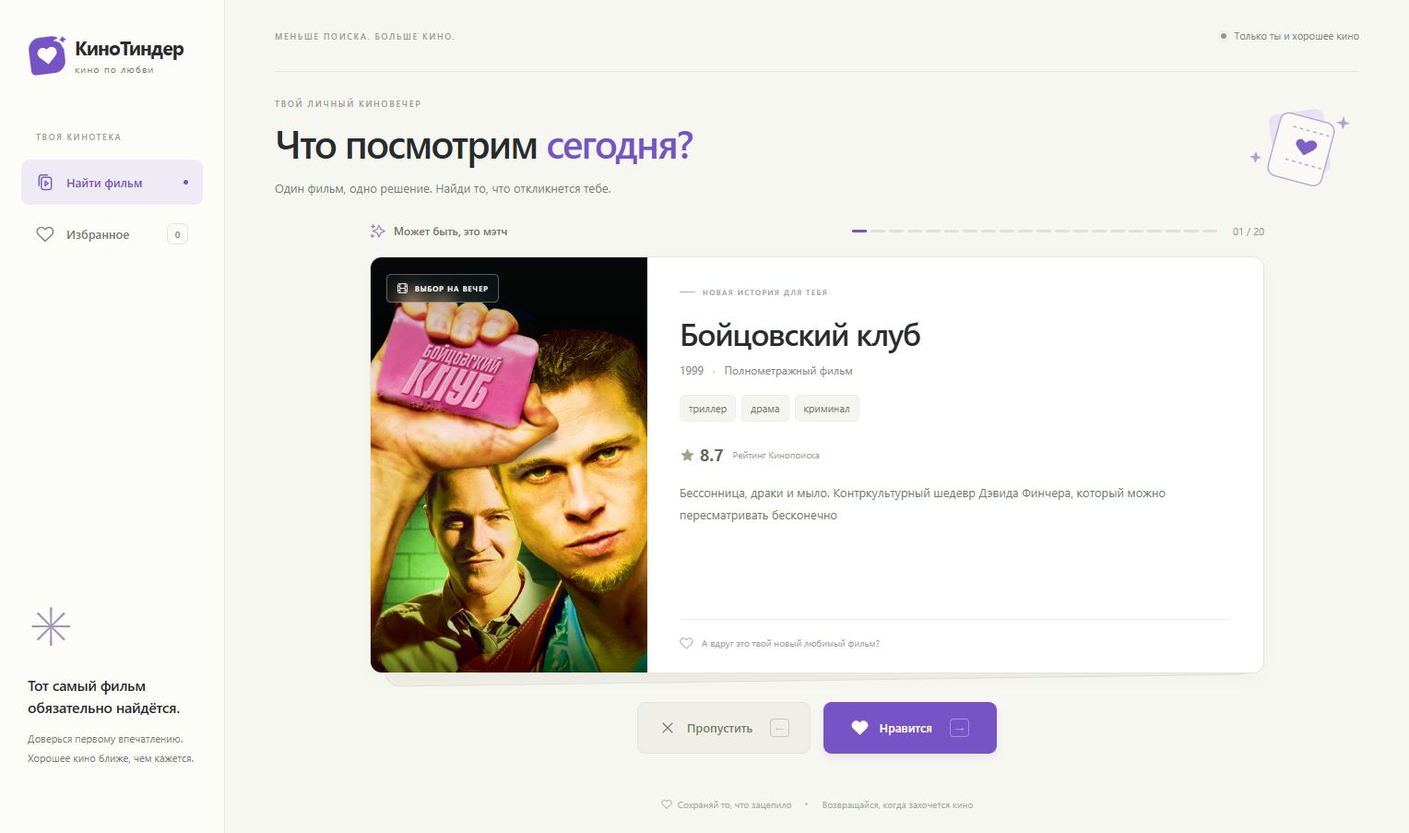
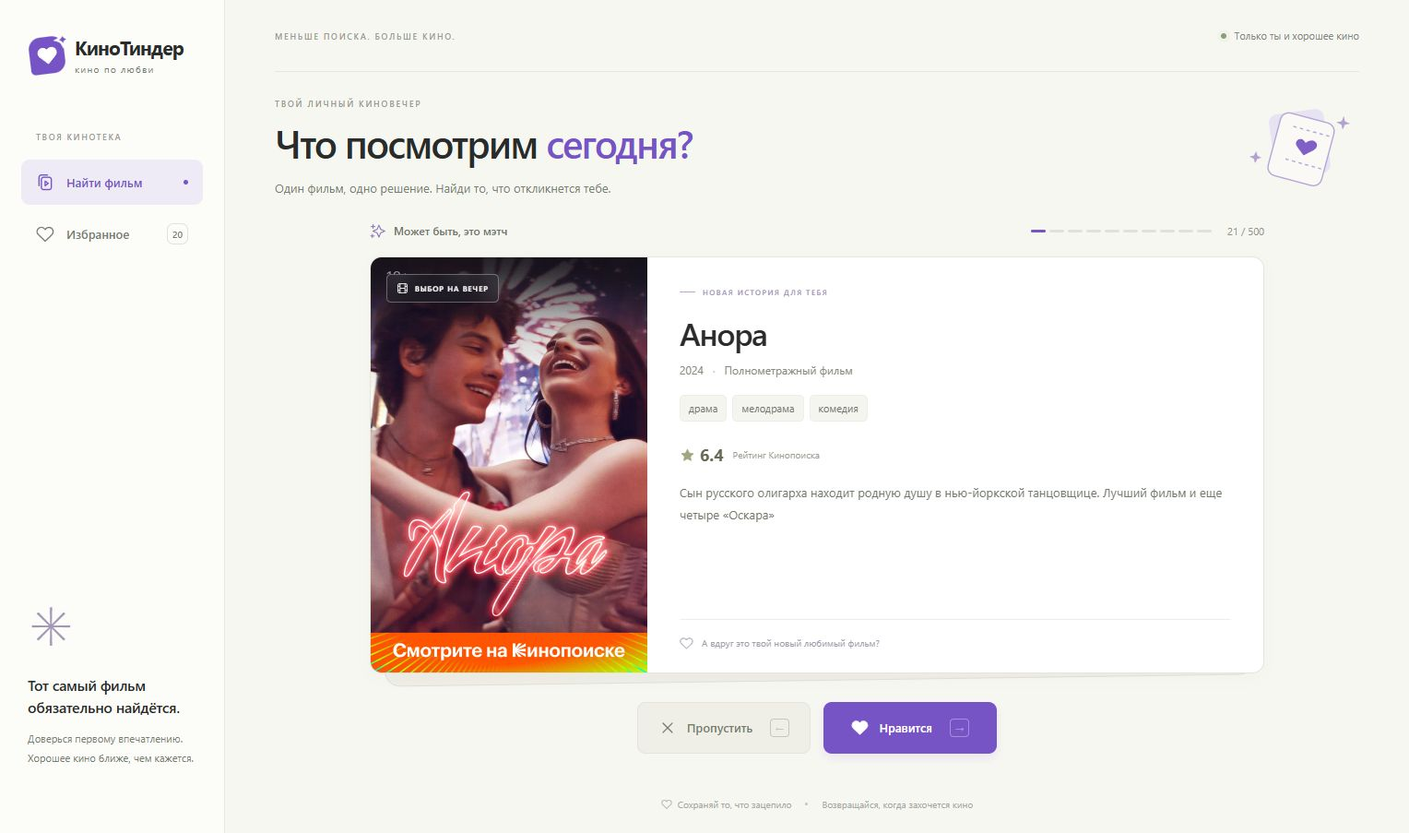
Load up to 500 movies with persistent cursor pagination

diff --git a/frontend/script.js b/frontend/script.js
@@ -7,6 +7,8 @@
   const card = $("movie-card");
   let movies = [];
   let favorites = [];
+  const MAX_MOVIES = 500;
+  let hasMore = true;
   let currentIndex = 0;
   let currentScreen = "discover";
   let busy = false;
@@ -73,11 +75,15 @@
   }
 
   function renderProgress() {
+    const total = hasMore ? MAX_MOVIES : movies.length;
     const position = movies.length ? Math.min(currentIndex + 1, movies.length) : 0;
-    $("movie-position").textContent = `${String(position).padStart(2, "0")} / ${String(movies.length).padStart(2, "0")}`;
-    $("progress-dots").replaceChildren(...movies.map((movie, index) => {
+    $("movie-position").textContent = `${String(position).padStart(2, "0")} / ${total}`;
+    // Десять делений вместо сотен DOM-элементов.
+    const segments = Math.min(total, 10);
+    const active = Math.min(segments - 1, Math.floor(currentIndex / Math.max(total, 1) * segments));
+    $("progress-dots").replaceChildren(...Array.from({ length: segments }, (_, index) => {
       const dot = document.createElement("span");
-      dot.className = `progress-dot${index < currentIndex ? " is-past" : index === currentIndex ? " is-current" : ""}`;
+      dot.className = `progress-dot${index < active ? " is-past" : index === active ? " is-current" : ""}`;
       return dot;
     }));
   }
@@ -87,6 +93,12 @@
     if (!movies.length) {
       showState("Здесь скоро появится кино", "Подборка пока пуста. Попробуй обновить её чуть позже.", [
         stateButton("Обновить подборку", "refresh", "primary-button", loadData)
+      ]);
+      return;
+    }
+    if (currentIndex >= movies.length && hasMore) {
+      showState("Продолжим знакомство с кино?", "Следующая порция фильмов уже ждёт в API.", [
+        stateButton("Загрузить ещё", "refresh", "primary-button", loadMoreMovies)
       ]);
       return;
     }
@@ -133,6 +145,7 @@
         throw new Error("Неожиданный формат ответа сервера. Ожидается массив фильмов.");
       }
       movies = movieData;
+      hasMore = movies.length < MAX_MOVIES;
       favorites = favoriteData;
       currentIndex = 0;
       loaded = true;
@@ -151,9 +164,51 @@
     }
   }
 
+  async function fetchMoreAndRender() {
+    showState("Загружаем следующие фильмы…", "Новые истории скоро появятся на экране.");
+    try {
+      const batch = await getMovies(true);
+      if (!batch || !Array.isArray(batch.movies) || typeof batch.has_more !== "boolean") {
+        throw new Error("Неожиданный формат следующей порции фильмов.");
+      }
+      const known = new Set(movies.map(movie => String(movie.id)));
+      batch.movies.forEach(movie => {
+        if (!known.has(String(movie.id))) {
+          known.add(String(movie.id));
+          movies.push(movie);
+        }
+      });
+      hasMore = batch.has_more;
+      renderMovie();
+    } catch (error) {
+      showState("Не получилось загрузить следующую порцию", error.message, [
+        stateButton("Попробовать ещё раз", "refresh", "primary-button", loadMoreMovies),
+        stateButton("Моё избранное", "heart", "secondary-button", () => { window.location.hash = "favorites"; })
+      ]);
+    }
+  }
+
+  async function loadMoreMovies() {
+    if (busy) return;
+    setBusy(true);
+    try { await fetchMoreAndRender(); }
+    finally { setBusy(false); }
+  }
+
   async function animateCard(keyframes, duration) {
     if (reducedMotion.matches) return;
-    await card.animate(keyframes, { duration, easing: "cubic-bezier(.2,.7,.3,1)" }).finished;
+    const animation = card.animate(keyframes, { duration, easing: "cubic-bezier(.2,.7,.3,1)" });
+    let timer;
+    try {
+      // В фоновой вкладке браузер может приостановить анимацию.
+      await Promise.race([
+        animation.finished,
+        new Promise(resolve => { timer = setTimeout(resolve, duration + 150); })
+      ]);
+    } finally {
+      clearTimeout(timer);
+      animation.cancel();
+    }
   }
 
   async function chooseMovie(like) {
@@ -178,7 +233,8 @@
       ], 220);
       currentIndex++;
       resetDrag();
-      renderMovie();
+      if (currentIndex >= movies.length && hasMore) await fetchMoreAndRender();
+      else renderMovie();
       if (!card.hidden) await animateCard([
         { opacity: 0, transform: `translateX(${-direction * 25}px) scale(.99)` },
         { opacity: 1, transform: "translateX(0) scale(1)" }

diff --git a/frontend/api.js b/frontend/api.js
@@ -21,8 +21,8 @@ async function request(path, options = {}) {
   return data;
 }
 
-async function getMovies() {
-  return request("/movies");
+async function getMovies(loadMore = false) {
+  return request(loadMore ? "/movies/next" : "/movies");
 }
 
 async function getFavorites() {

diff --git a/app.py b/app.py
@@ -12,6 +12,8 @@ from flask import Flask, current_app, g, jsonify, request
 ROOT = Path(__file__).resolve().parent
 load_dotenv(ROOT / ".env")
 POISKKINO_URL = "https://api.poiskkino.dev/v1.5"
+BATCH_SIZE = 50
+MAX_MOVIES = 500
 
 
 class APIError(Exception):
@@ -45,14 +47,21 @@ def poiskkino_get(session, path, **params):
 
 
 def import_movies():
+    db = get_db()
+    count = db.execute("SELECT COUNT(*) FROM movies").fetchone()[0]
+    state = db.execute("SELECT next_cursor, exhausted FROM catalog_state WHERE id = 1").fetchone()
+    if count >= MAX_MOVIES or state["exhausted"]:
+        return []
     key = current_app.config["POISKKINO_API_KEY"]
     if not key:
         raise APIError("Добавь POISKKINO_API_KEY в файл .env и перезапусти Flask.", 503)
+    params = dict(limit=BATCH_SIZE, type="movie", sortField="votes.kp", sortType="-1")
+    if state["next_cursor"]:
+        params["next"] = state["next_cursor"]
     movies = []
     with requests.Session() as session:
         session.headers.update({"X-API-KEY": key, "Accept": "application/json"})
-        collection = poiskkino_get(session, "/movie", page=1, limit=20,
-                                    type="movie", sortField="votes.kp", sortType="-1")
+        collection = poiskkino_get(session, "/movie", **params)
         items = collection.get("docs")
         if not isinstance(items, list):
             raise APIError("ПоискКино API вернул неожиданный формат подборки.")
@@ -70,12 +79,23 @@ def import_movies():
                 "poster": poster.get("url") or poster.get("previewUrl") or "",
                 "description": film.get("shortDescription") or film.get("description") or "Описание пока недоступно."
             })
-    # Одна транзакция: сбой API не оставляет частично загруженный каталог.
-    db = get_db()
+    next_cursor = collection.get("next")
+    has_next = collection.get("hasNext", bool(next_cursor))
+    if has_next and (not isinstance(next_cursor, str) or not next_cursor or next_cursor == state["next_cursor"]):
+        raise APIError("ПоискКино API не вернул корректный курсор следующей страницы.")
+    # Фильмы и курсор сохраняются вместе. Ошибка не пропускает страницу.
+    added = []
     with db:
-        db.executemany("INSERT OR IGNORE INTO movies (id, data) VALUES (?, ?)",
-                       [(movie["id"], json.dumps(movie, ensure_ascii=False)) for movie in movies])
-    return movies
+        for movie in movies:
+            if count + len(added) >= MAX_MOVIES:
+                break
+            inserted = db.execute("INSERT OR IGNORE INTO movies (id, data) VALUES (?, ?)",
+                                  (movie["id"], json.dumps(movie, ensure_ascii=False)))
+            if inserted.rowcount:
+                added.append(movie)
+        db.execute("UPDATE catalog_state SET next_cursor = ?, exhausted = ? WHERE id = 1",
+                   (next_cursor if has_next else None, int(not has_next)))
+    return added
 
 
 def create_app(test_config=None):
@@ -103,6 +123,12 @@ def create_app(test_config=None):
                 id INTEGER PRIMARY KEY,
                 data TEXT NOT NULL
             );
+            CREATE TABLE IF NOT EXISTS catalog_state (
+                id INTEGER PRIMARY KEY CHECK (id = 1),
+                next_cursor TEXT,
+                exhausted INTEGER NOT NULL DEFAULT 0
+            );
+            INSERT OR IGNORE INTO catalog_state (id) VALUES (1);
             CREATE TABLE IF NOT EXISTS favorites (
                 movie_id INTEGER PRIMARY KEY REFERENCES movies(id) ON DELETE CASCADE,
                 added_at TEXT NOT NULL DEFAULT CURRENT_TIMESTAMP
@@ -128,6 +154,16 @@ def create_app(test_config=None):
             rows = get_db().execute("SELECT data FROM movies ORDER BY id").fetchall()
             data = [json.loads(row["data"]) for row in rows] if rows else import_movies()
         return jsonify(data)
+
+    @app.get("/api/movies/next")
+    def next_movies():
+        with import_lock:
+            added = import_movies()
+            db = get_db()
+            total = db.execute("SELECT COUNT(*) FROM movies").fetchone()[0]
+            exhausted = db.execute("SELECT exhausted FROM catalog_state WHERE id = 1").fetchone()[0]
+        return jsonify(movies=added, has_more=not exhausted and total < MAX_MOVIES,
+                       total=total, limit=MAX_MOVIES)
 
     @app.get("/api/favorites")
     def favorites():

diff --git a/tests/test_pagination.py b/tests/test_pagination.py
@@ -1,0 +1,100 @@
+import json
+import tempfile
+import unittest
+from pathlib import Path
+from unittest.mock import Mock, patch
+
+import requests
+
+from app import create_app, get_db
+
+
+def response(ids, cursor=None):
+    result = Mock(status_code=200)
+    result.json.return_value = {
+        "docs": [{"id": i, "name": f"Film {i}", "genres": []} for i in ids],
+        "next": cursor, "hasNext": bool(cursor)
+    }
+    return result
+
+
+class PaginationTests(unittest.TestCase):
+    def setUp(self):
+        self.temp = tempfile.TemporaryDirectory()
+        self.config = {"TESTING": True, "DATABASE": str(Path(self.temp.name) / "db.sqlite3"),
+                       "POISKKINO_API_KEY": "test-key"}
+        self.app = create_app(self.config)
+        self.client = self.app.test_client()
+
+    def tearDown(self):
+        self.temp.cleanup()
+
+    def remote(self, result):
+        session = patch("app.requests.Session")
+        mocked = session.start()
+        self.addCleanup(session.stop)
+        mocked.return_value.__enter__.return_value.get.return_value = result
+        return mocked.return_value.__enter__.return_value.get
+
+    def test_500_unique_movies_and_cursor_after_restart(self):
+        remote = self.remote(response(range(1, 51), "cursor-1"))
+        self.assertEqual(len(self.client.get("/api/movies").json), 50)
+        self.assertNotIn("next", remote.call_args.kwargs["params"])
+        self.client = create_app(self.config).test_client()
+        collected = set(range(1, 51))
+        for page in range(1, 10):
+            remote.return_value = response(range(page * 50 + 1, page * 50 + 51), f"cursor-{page + 1}")
+            data = self.client.get("/api/movies/next").json
+            self.assertEqual(remote.call_args.kwargs["params"]["next"], f"cursor-{page}")
+            self.assertFalse(collected.intersection(movie["id"] for movie in data["movies"]))
+            collected.update(movie["id"] for movie in data["movies"])
+        self.assertEqual(len(collected), 500)
+        self.assertEqual(data["total"], 500)
+        self.assertFalse(data["has_more"])
+        remote.reset_mock()
+        self.assertEqual(self.client.get("/api/movies/next").json["movies"], [])
+        remote.assert_not_called()
+
+    def test_duplicate_ids_and_existing_favorites(self):
+        self.remote(response(range(1, 51), "next-page"))
+        self.client.get("/api/movies")
+        self.client.post("/api/favorites", json={"movie_id": 1})
+        with patch("app.requests.Session") as session:
+            session.return_value.__enter__.return_value.get.return_value = response(range(41, 91))
+            data = self.client.get("/api/movies/next").json
+        self.assertEqual(len(data["movies"]), 40)
+        self.assertEqual(data["total"], 90)
+        self.assertFalse(data["has_more"])
+        self.assertEqual(self.client.get("/api/favorites").json[0]["id"], 1)
+
+    def test_failure_retries_same_cursor(self):
+        remote = self.remote(response(range(1, 51), "retry-cursor"))
+        self.client.get("/api/movies")
+        remote.side_effect = requests.Timeout()
+        self.assertEqual(self.client.get("/api/movies/next").status_code, 502)
+        remote.side_effect = None
+        remote.return_value = response(range(51, 101))
+        self.assertEqual(self.client.get("/api/movies/next").json["total"], 100)
+        self.assertEqual(remote.call_args.kwargs["params"]["next"], "retry-cursor")
+
+    def test_migration_keeps_legacy_movies_and_favorites(self):
+        with self.app.app_context():
+            db = get_db()
+            with db:
+                db.execute("INSERT INTO movies VALUES (?, ?)", (1, json.dumps({"id": 1})))
+                db.execute("INSERT INTO favorites (movie_id) VALUES (1)")
+                db.execute("DROP TABLE catalog_state")
+        client = create_app(self.config).test_client()
+        self.remote(response(range(1, 51), "cursor"))
+        result = client.get("/api/movies/next").json
+        self.assertEqual(result["total"], 50)
+        self.assertEqual(len(result["movies"]), 49)
+        self.assertEqual(client.get("/api/favorites").json, [{"id": 1}])
+
+    def test_invalid_cursor_does_not_save_page(self):
+        self.remote(response(range(1, 51), "cursor"))
+        self.client.get("/api/movies")
+        with patch("app.requests.Session") as session:
+            session.return_value.__enter__.return_value.get.return_value = response(range(51, 101), "cursor")
+            self.assertEqual(self.client.get("/api/movies/next").status_code, 502)
+        self.assertEqual(len(self.client.get("/api/movies").json), 50)

diff --git a/tests/test_app.py b/tests/test_app.py
@@ -32,7 +32,7 @@ class AppTests(unittest.TestCase):
             result = self.client.get("/api/movies")
             call = session.return_value.__enter__.return_value.get.call_args
             self.assertEqual(call.args[0], "https://api.poiskkino.dev/v1.5/movie")
-            self.assertEqual(call.kwargs["params"]["limit"], 20)
+            self.assertEqual(call.kwargs["params"]["limit"], 50)
         self.assertEqual(result.status_code, 200)
         return result.json
 

diff --git a/README.md b/README.md
@@ -20,7 +20,8 @@
 
 ## Что уже работает
 
-- Реальные фильмы из [ПоискКино API](https://poiskkino.dev/): постеры, жанры, год, рейтинг Кинопоиска и описания.
+- До **500 реальных фильмов** из [ПоискКино API](https://poiskkino.dev/): постеры, жанры, год, рейтинг Кинопоиска и описания.
+- Автоматическая подгрузка по 50 фильмов при пролистывании, без дубликатов.
 - Выбор кнопками, стрелками клавиатуры или свайпом мышью.
 - Избранное с добавлением и удалением фильмов.
 - Сохранение каталога и избранного в локальной SQLite после перезапуска.
@@ -83,6 +84,7 @@ python3 -m venv .venv
 | Каталог и избранное | `instance/kinotinder.sqlite3` | Локальная база SQLite, создаётся автоматически при запуске Flask |
 | Фильмы | Таблица `movies` в этой БД | ID и JSON с названием, годом, жанрами, рейтингом, описанием и URL постера |
 | Избранное | Таблица `favorites` в этой БД | ID фильма и время добавления |
+| Прогресс загрузки | Таблица `catalog_state` в этой БД | Курсор следующей страницы API и признак конца каталога |
 | API-ключ | `.env` рядом с `app.py` | `POISKKINO_API_KEY`; также поддерживается переменная окружения с этим именем |
 | Python-зависимости | `.venv/` | Локально установленное окружение Python |
 | Изображения | Внешние URL, полученные от API | Постеры загружаются браузером; файлы изображений в SQLite не сохраняются |
@@ -92,9 +94,12 @@ python3 -m venv .venv
 ### Когда выполняются запросы к API
 
 1. При запуске Flask создаёт пустую SQLite, если файла БД ещё нет.
-2. При первом `GET /api/movies`, если таблица `movies` пуста, сервер запрашивает **20 фильмов** у `https://api.poiskkino.dev/v1.5/movie` и сохраняет результат одной транзакцией.
-3. Следующие открытия используют сохранённый каталог. Автоматической ежедневной загрузки и подгрузки новых страниц пока нет. После последней карточки можно посмотреть подборку снова.
-4. Добавление и удаление избранного меняют SQLite. `localStorage` для данных приложения не используется.
+2. При первом `GET /api/movies`, если таблица `movies` пуста, сервер запрашивает **50 фильмов** у `https://api.poiskkino.dev/v1.5/movie` и сохраняет результат одной транзакцией.
+3. Когда текущие карточки заканчиваются, интерфейс автоматически запрашивает следующую порцию по 50 фильмов через `/api/movies/next`, пока каталог не достигнет **500 уникальных фильмов** или провайдер не сообщит об окончании данных. Повторные ID не добавляются.
+4. Курсор API сохраняется в SQLite вместе с фильмами: перезапуск сервера продолжает загрузку с нужной страницы. При ошибке можно повторить запрос, уже загруженные фильмы и избранное сохраняются. Следующие открытия используют локальный каталог; ежедневного автообновления нет. После последней карточки можно посмотреть подборку снова.
+5. Добавление и удаление избранного меняют SQLite. `localStorage` для данных приложения не используется.
+
+При обновлении старой версии с 20 фильмами новая таблица создаётся автоматически. Первый дополнительный запрос может повторно получить часть уже сохранённых фильмов: дубликаты будут отсеяны, избранное останется на месте. Удалять старую БД для обновления не нужно.
 
 У друга будет **своя независимая БД**, созданная на его компьютере. Твоё избранное не передаётся через GitHub. В одном запущенном экземпляре список избранного общий для всех браузеров, которые к нему обращаются: аккаунтов нет.
 
@@ -108,8 +113,9 @@ python3 -m venv .venv
 2. Покажи карточку: постер, год, жанры, рейтинг и описание из API.
 3. Нажми «Нравится», затем пропусти следующий фильм кнопкой или свайпом.
 4. Открой «Избранное»: понравившийся фильм уже там.
-5. Перезагрузи страницу, затем перезапусти сервер: избранное сохранится в SQLite.
-6. Удали фильм из избранного и покажи обновившийся список.
+5. Пролистай текущую порцию: следующая загрузится автоматически. Счётчик показывает продвижение к 500 фильмам.
+6. Перезагрузи страницу, затем перезапусти сервер: избранное сохранится в SQLite.
+7. Удали фильм из избранного и покажи обновившийся список.
 
 ## Если что-то не запускается
 
@@ -147,15 +153,18 @@ instance/              # Создаётся локально; не входит 
 | Метод | Адрес | Назначение |
 | --- | --- | --- |
 | GET | `/api/movies` | Каталог из SQLite; при пустой БД — импорт из ПоискКино |
+| GET | `/api/movies/next` | Следующая порция из API; ответ с новыми фильмами и метаданными |
 | GET | `/api/favorites` | Массив избранных фильмов |
 | POST | `/api/favorites` | Добавить: JSON `{ "movie_id": 123 }` |
 | DELETE | `/api/favorites/123` | Удалить из избранного, ответ `204` |
 
-GET-запросы возвращают массивы объектов единого формата:
+`GET /api/movies` и `GET /api/favorites` возвращают массивы объектов единого формата:
 
 ```js
 { id, title, year, genres, rating, poster, description }
 ```
+
+`GET /api/movies/next` возвращает `{ movies, has_more, total, limit }`: только новые фильмы в `movies`, возможность продолжения, число сохранённых уникальных фильмов и предел `500`. После достижения предела повторных внешних запросов нет. При ошибке API курсор не меняется.
 
 `genres` — массив строк, `rating` и `year` могут быть `null`. POST принимает ID из локального каталога и возвращает объект фильма. Повторное добавление не создаёт дубликаты. Ошибки возвращаются как JSON `{ "error": "Сообщение" }` с HTTP-статусом ошибки.
 
@@ -167,7 +176,7 @@ GET-запросы возвращают массивы объектов един
 .\.venv\Scripts\python.exe -m unittest discover -s tests -v
 ```
 
-Тесты используют временные файлы и временную SQLite, а внешний HTTP-ответ подменяется. Рабочая БД и личный ключ не меняются.
+Тесты используют временные файлы и временную SQLite, а внешний HTTP-ответ подменяется. Рабочая БД и личный ключ не меняются. Проверяются также 500 уникальных фильмов, курсоры после перезапуска, повтор после ошибки и обновление старой БД.
 
 ---
 
